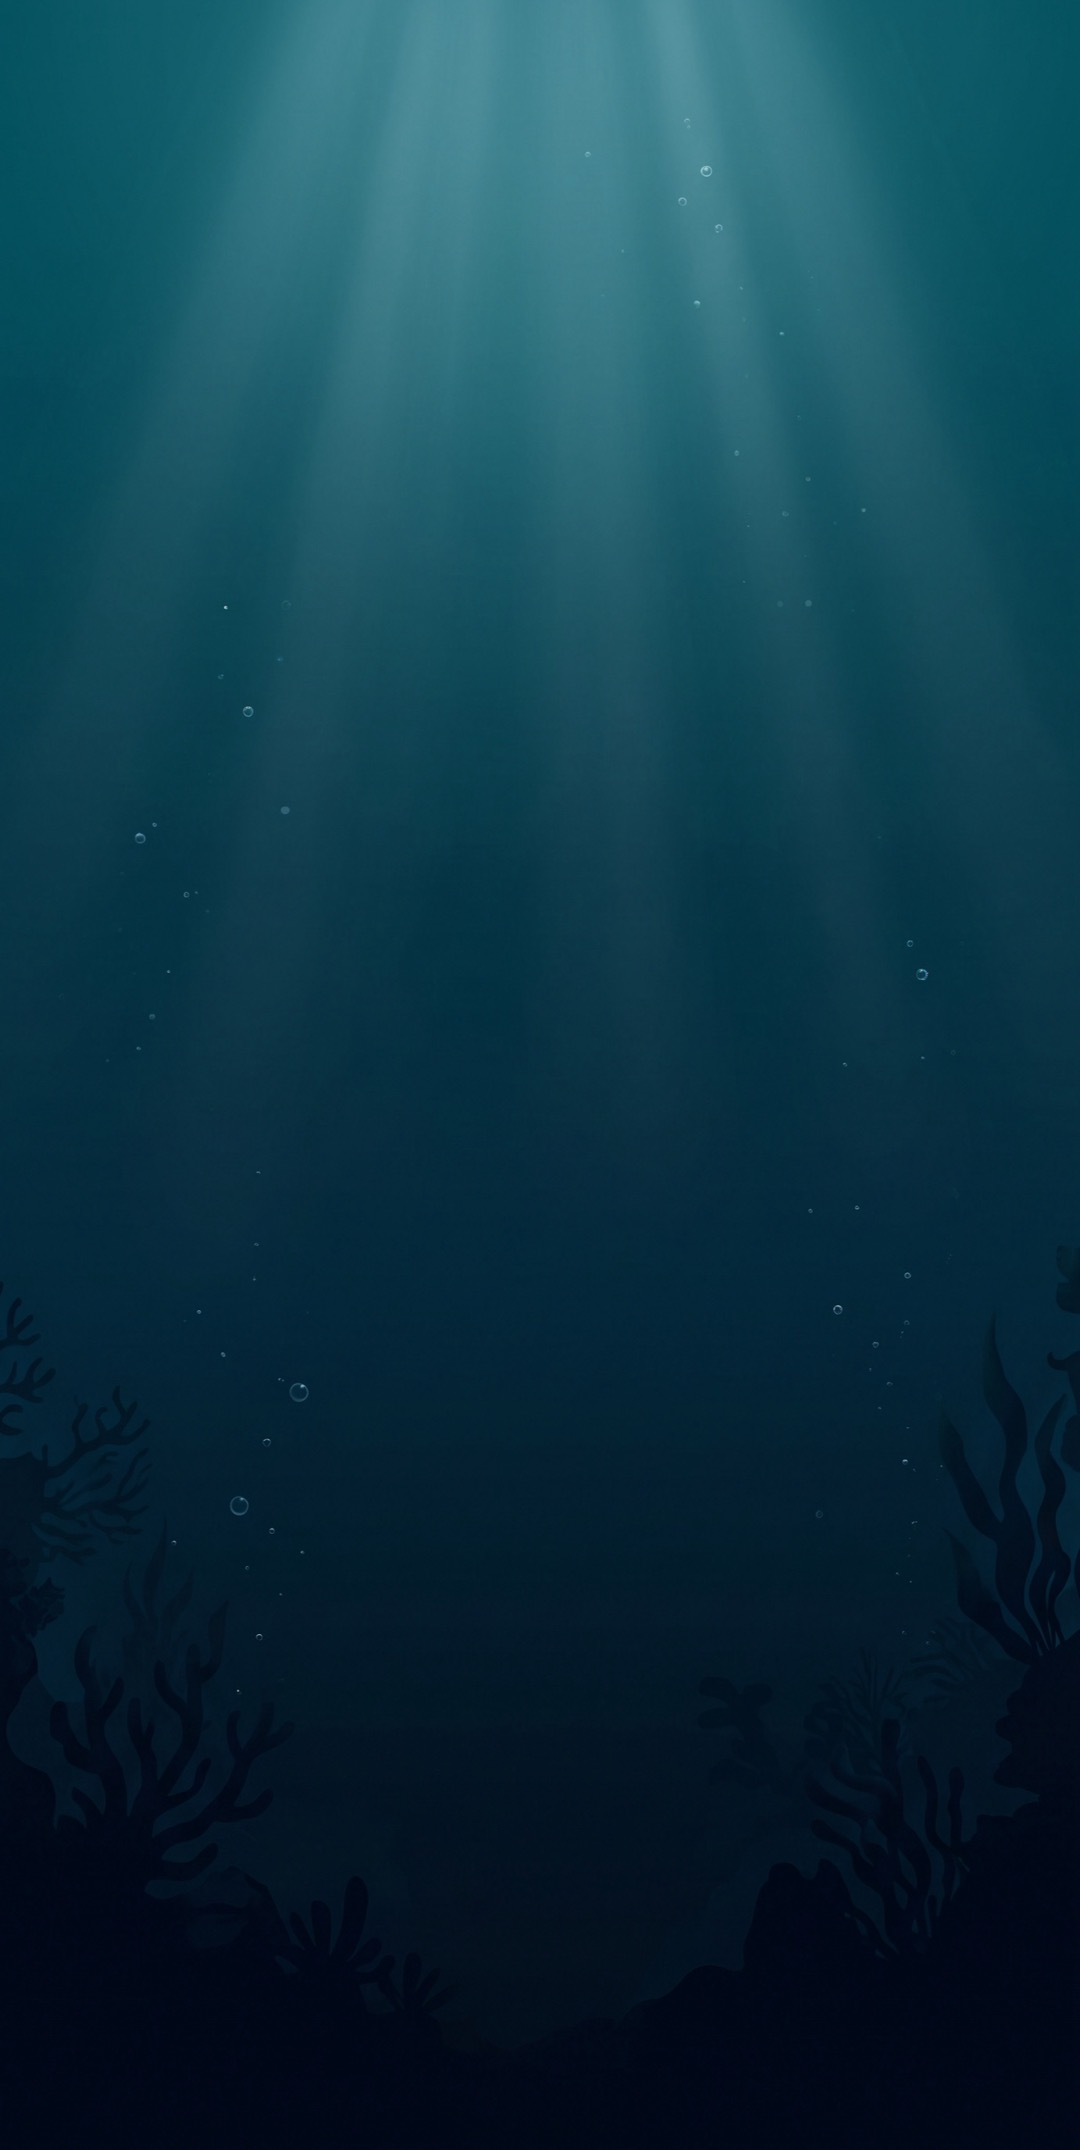
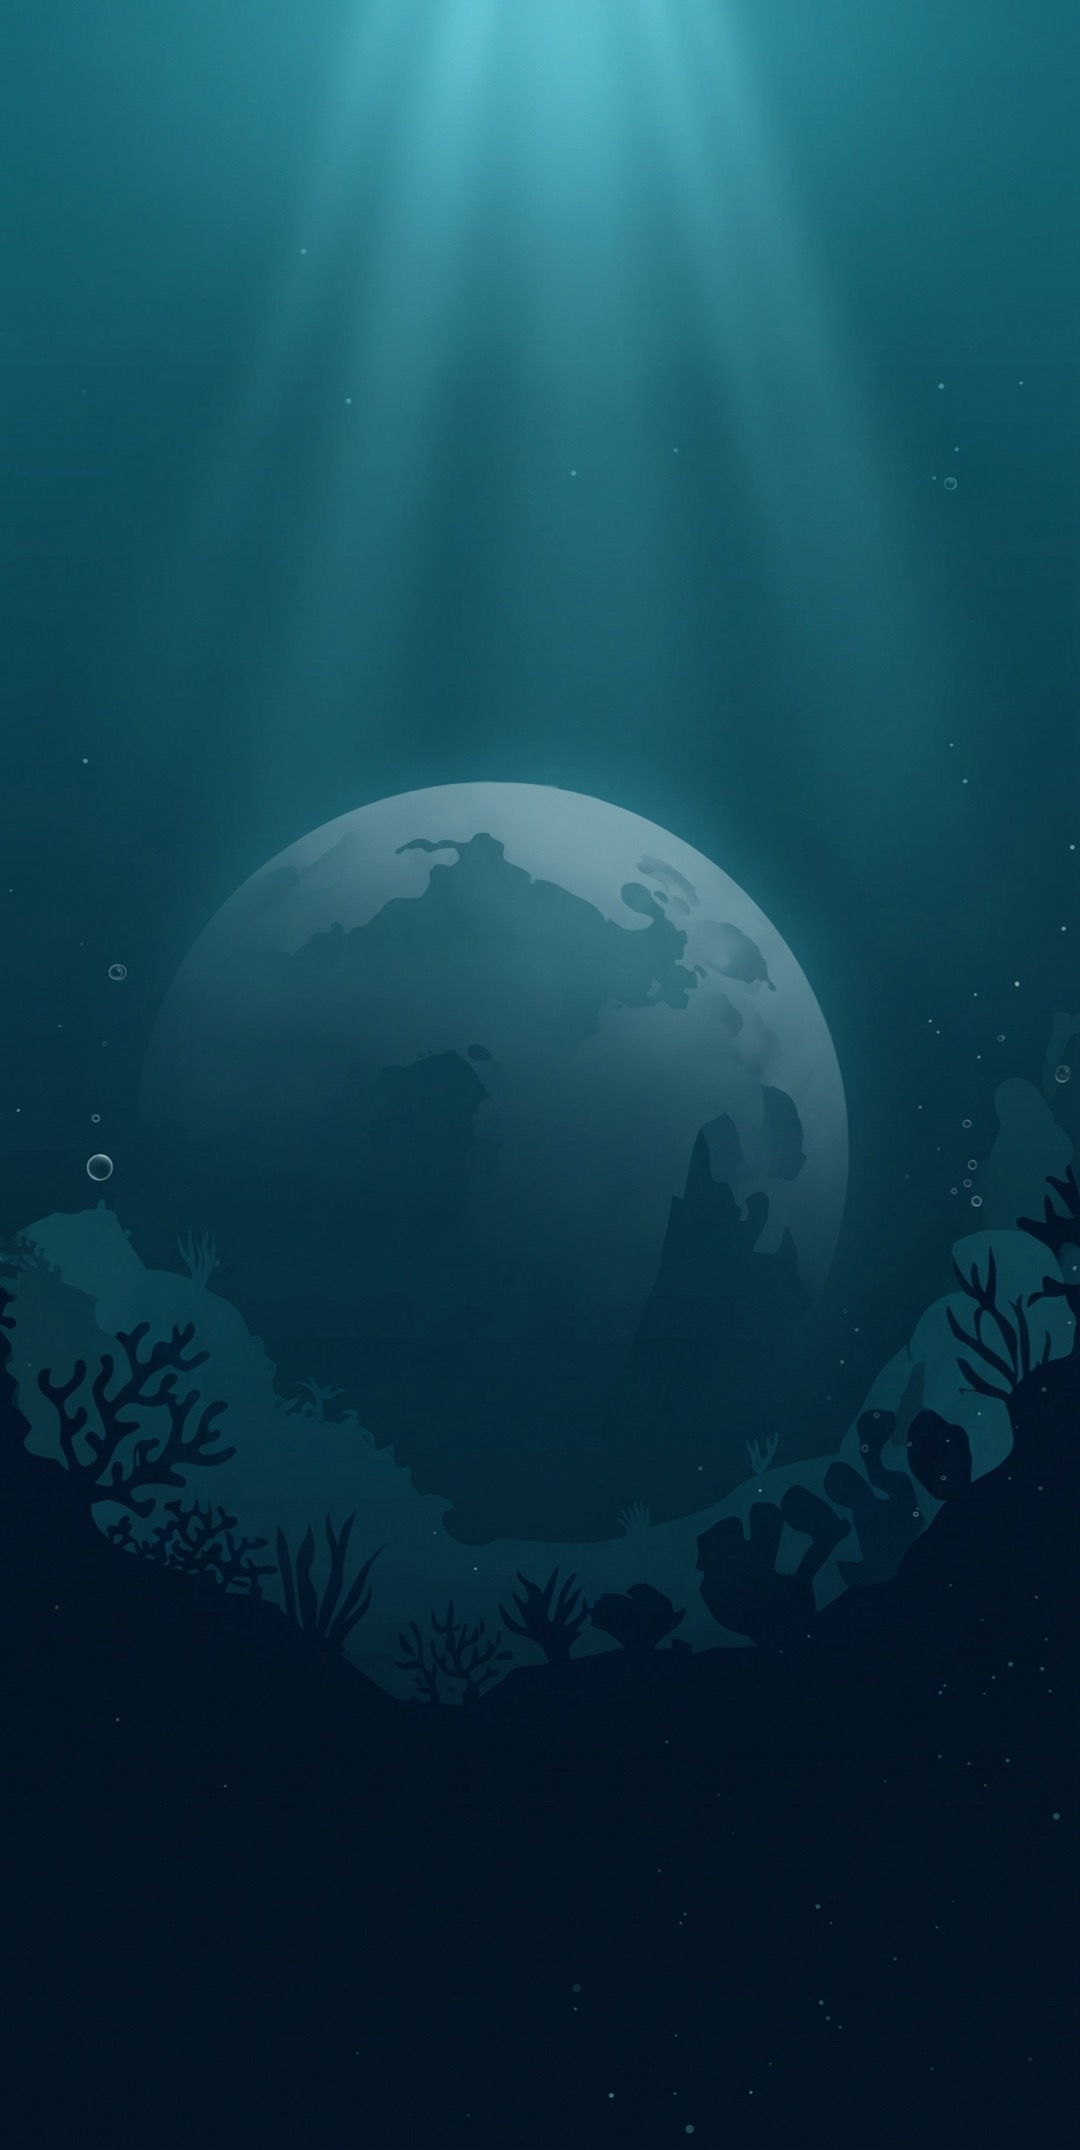
feat(theme): rebuild the ocean panels, frame and background from the concept

diff --git a/Assets/Scripts/Themes/ThemeManager.cs b/Assets/Scripts/Themes/ThemeManager.cs
@@ -20,6 +20,13 @@ namespace Themes
         private const string LogoObjectName = "I_Logo";
         private static readonly string[] ExplosionTextures = { "explosion_one_texture", "spritesheet" };
         private const string PieceLetters = "IJLOSTZ";
+        private const string FrameObjectName = "I_GridFrame";
+        private const string NextBoxObjectName = "I_NextPiece";
+        private const string PauseObjectName = "B_Pause";
+        private const string RemoveAdsObjectName = "B_RemoveAds_Game";
+        private const float PanelBorderDensity = 1.6f;
+        private const float FrameBorderDensity = 1.5f;
+        private static readonly Vector2 HolderPadding = new Vector2(16f, 18f);
 
         /// <summary>The theme's asset name, or empty for the standard look.</summary>
         public static string Selected
@@ -65,6 +72,15 @@ namespace Themes
 
                 if (image.sprite.texture.name == BackgroundTextureName && theme.Background != null)
                     image.sprite = theme.Background;
+                else if (image.name == FrameObjectName && theme.FrameSprite != null)
+                    ApplyPanel(image, theme.FrameSprite, FrameBorderDensity);
+                else if (image.name == NextBoxObjectName && theme.NextBoxSprite != null)
+                {
+                    image.sprite = theme.NextBoxSprite;
+                    image.color = Color.white;
+                }
+                else if (image.sprite.name == PanelSpriteName && theme.PanelSprite != null)
+                    ApplyPanel(image, theme.PanelSprite, PanelBorderDensity);
                 else if (image.name == LogoObjectName && theme.Logo != null)
                     image.sprite = theme.Logo;
                 else if (image.sprite.name == ButtonSpriteName)
@@ -75,6 +91,43 @@ namespace Themes
                     image.color = theme.FrameTint;
             }
 
+        }
+
+        private static void ApplyPanel(Image image, Sprite sprite, float borderDensity)
+        {
+            image.sprite = sprite;
+            image.type = Image.Type.Sliced;
+            image.pixelsPerUnitMultiplier = borderDensity;
+            image.color = Color.white;
+        }
+
+        // Placed once the canvas has its final layout, behind both buttons.
+        private static void AddButtonHolder(Sprite sprite)
+        {
+            GameObject pause = GameObject.Find(PauseObjectName);
+            GameObject removeAds = GameObject.Find(RemoveAdsObjectName);
+            if (sprite == null || pause == null || removeAds == null) return;
+
+            Canvas.ForceUpdateCanvases();
+            Vector3[] corners = new Vector3[4];
+            Vector3[] others = new Vector3[4];
+            ((RectTransform)pause.transform).GetWorldCorners(corners);
+            ((RectTransform)removeAds.transform).GetWorldCorners(others);
+
+            Transform parent = pause.transform.parent;
+            GameObject holder = new GameObject("I_ButtonHolder", typeof(RectTransform), typeof(Image));
+            holder.transform.SetParent(parent, false);
+            holder.transform.SetSiblingIndex(pause.transform.GetSiblingIndex());
+            holder.GetComponent<Image>().sprite = sprite;
+            holder.GetComponent<Image>().raycastTarget = false;
+
+            Vector3 lower = parent.InverseTransformPoint(Vector3.Min(corners[0], others[0]));
+            Vector3 upper = parent.InverseTransformPoint(Vector3.Max(corners[2], others[2]));
+            RectTransform rect = (RectTransform)holder.transform;
+            rect.anchorMin = rect.anchorMax = new Vector2(0.5f, 0.5f);
+            rect.pivot = new Vector2(0.5f, 0.5f);
+            rect.sizeDelta = (Vector2)(upper - lower) + HolderPadding * 2f;
+            rect.localPosition = (lower + upper) * 0.5f;
         }
 
         /// <summary>The board builds its grid in Start, after the theme is applied.</summary>
@@ -91,6 +144,8 @@ namespace Themes
                 if (theme.GridSprite != null) renderer.sprite = theme.GridSprite;
                 renderer.color = theme.GridTint;
             }
+
+            AddButtonHolder(theme.ButtonHolderSprite);
         }
 
         private static void ApplyEffects(Color color)

diff --git a/Assets/Scripts/Themes/GameTheme.cs b/Assets/Scripts/Themes/GameTheme.cs
@@ -10,6 +10,10 @@ namespace Themes
         [SerializeField] private Sprite _background;
         [SerializeField] private Sprite _gridSprite;
         [SerializeField] private Sprite _logo;
+        [SerializeField] private Sprite _panelSprite;
+        [SerializeField] private Sprite _frameSprite;
+        [SerializeField] private Sprite _nextBoxSprite;
+        [SerializeField] private Sprite _buttonHolderSprite;
         [SerializeField] private Sprite[] _particleFrames;
         [SerializeField] private Color _frameTint = Color.white;
         [SerializeField] private Color _buttonTint = Color.white;
@@ -27,6 +31,10 @@ namespace Themes
         public Sprite Background => _background;
         public Sprite GridSprite => _gridSprite;
         public Sprite Logo => _logo;
+        public Sprite PanelSprite => _panelSprite;
+        public Sprite FrameSprite => _frameSprite;
+        public Sprite NextBoxSprite => _nextBoxSprite;
+        public Sprite ButtonHolderSprite => _buttonHolderSprite;
         public Sprite[] ParticleFrames => _particleFrames;
         public Color FrameTint => _frameTint;
         public Color ButtonTint => _buttonTint;
